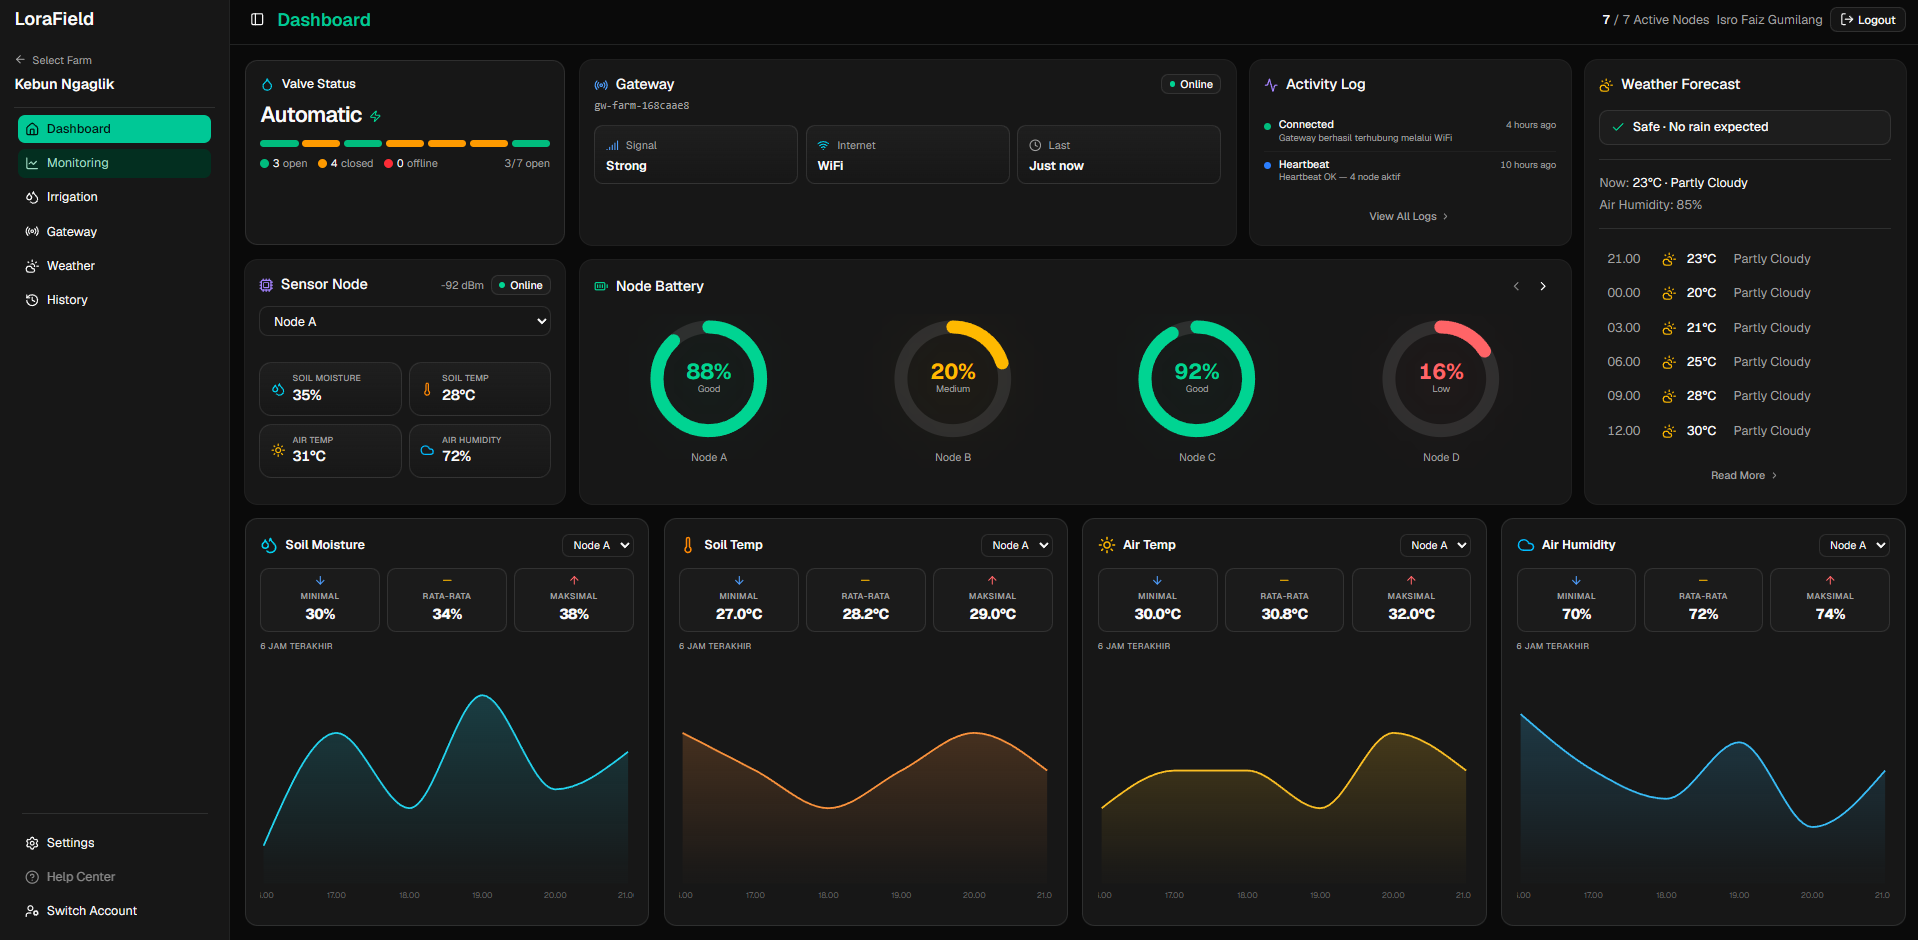
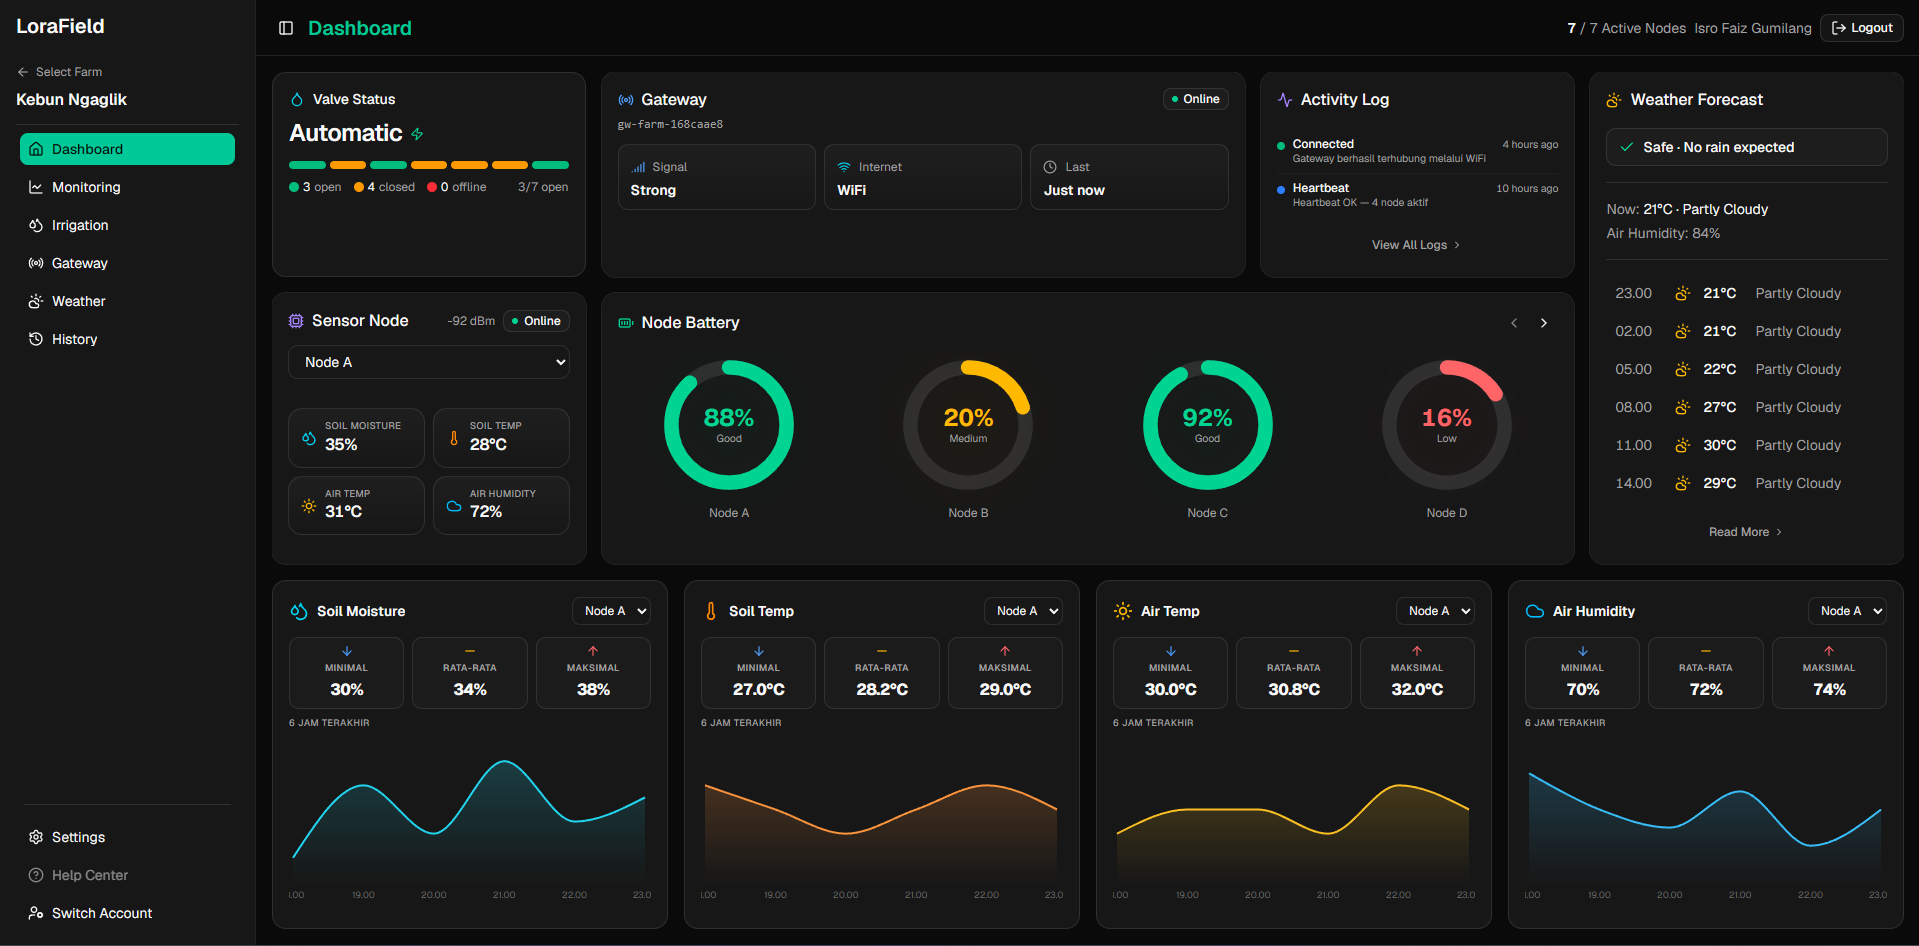
fix layout card

diff --git a/frontend/src/features/landing/LandingPage.tsx b/frontend/src/features/landing/LandingPage.tsx
@@ -24,7 +24,7 @@ import {
 } from "@/components/ui/accordion"
 import { Badge } from "@/components/ui/badge"
 import { Card, CardContent } from "@/components/ui/card"
-import { DASHBOARD_PREVIEW_IMAGE_URL } from "./constants"
+import heroPreviewImage from "@/assets/Hero-Preview1.png"
 import "./LandingPage.css"
 
 // Lebar konten + padding horizontal yang konsisten.
@@ -244,7 +244,7 @@ export default function LandingPage() {
               initial={{ opacity: 0, y: 20 }}
               animate={{ opacity: 1, y: 0 }}
               transition={{ duration: 0.5 }}
-              className="mx-auto mb-12 max-w-3xl text-center"
+              className="mx-auto mb-6 max-w-3xl text-center"
             >
               <h1 className="mb-6 bg-gradient-to-r from-foreground to-foreground/70 bg-clip-text text-4xl font-bold tracking-tight text-transparent md:text-5xl lg:text-6xl">
                 {t("landing.heroTitle")}
@@ -266,17 +266,17 @@ export default function LandingPage() {
               initial={{ opacity: 0, y: 40 }}
               animate={{ opacity: 1, y: 0 }}
               transition={{ duration: 0.7, delay: 0.2 }}
-              className="relative mx-auto max-w-5xl"
+              className="relative mx-auto max-w-[70.60032rem]"
             >
               <div className="overflow-hidden rounded-xl border border-border/40 bg-gradient-to-b from-background to-muted/20 shadow-2xl">
                 {!imageError && (
                   <img
-                    src={DASHBOARD_PREVIEW_IMAGE_URL}
+                    src={heroPreviewImage}
                     onError={handleImageError}
                     width={1280}
                     height={720}
                     alt={t("landing.heroImageAlt")}
-                    className="h-auto w-full"
+                    className="aspect-video w-full object-fill"
                   />
                 )}
                 {imageError && (

diff --git a/frontend/src/features/monitoring/components/MonitoringPanel.tsx b/frontend/src/features/monitoring/components/MonitoringPanel.tsx
@@ -64,7 +64,7 @@ function MonitoringNodeSelect({
 
 function MonitoringChartLoadingState() {
   return (
-    <div className="grid flex-1 gap-4 md:min-h-0 md:grid-cols-2 md:grid-rows-2">
+    <div className="grid flex-1 gap-4 md:min-h-0 md:grid-cols-2 md:grid-rows-2 md:overflow-hidden">
       {Array.from({ length: 4 }).map((_, i) => (
         <Skeleton key={i} className="min-h-[14rem] w-full md:min-h-0" />
       ))}
@@ -77,7 +77,7 @@ function MonitoringChartGrid({
   thresholds,
 }: Pick<MonitoringPanelProps, 'readings' | 'thresholds'>) {
   return (
-    <div className="grid flex-1 gap-4 md:min-h-0 md:grid-cols-2 md:grid-rows-2">
+    <div className="grid flex-1 gap-4 md:min-h-0 md:grid-cols-2 md:grid-rows-2 md:overflow-hidden">
       <SoilMoistureZoneChart
         readings={readings}
         lower={thresholds.lower}
@@ -103,7 +103,7 @@ export function MonitoringPanel({
   const { t } = useTranslation();
 
   return (
-    <Card className="md:h-[calc(100svh-5.5rem)] md:max-h-[calc(100svh-5.5rem)]">
+    <Card className="md:h-[calc(100svh-5.5rem)] md:max-h-[calc(100svh-5.5rem)] md:overflow-hidden">
       <CardHeader className="pb-3">
         <CardTitle className="text-sm">{t('monitoring.selectNode')}</CardTitle>
       </CardHeader>

diff --git a/frontend/src/features/irrigation/components/IrrigationNodeGridCard.tsx b/frontend/src/features/irrigation/components/IrrigationNodeGridCard.tsx
@@ -22,11 +22,11 @@ export function IrrigationNodeGridCard({
   const shouldScrollNodes = nodes.length > NODE_SCROLL_THRESHOLD;
 
   return (
-    <Card className="flex h-full flex-col">
-      <CardHeader className="pb-2">
+    <Card className="flex h-full min-h-0 flex-col gap-1 overflow-hidden py-2">
+      <CardHeader className="pb-0">
         <CardTitle className="text-sm">{t('irrigation.perNodeTitle')}</CardTitle>
       </CardHeader>
-      <CardContent className="flex flex-1 p-4 pt-0 sm:p-5 sm:pt-0">
+      <CardContent className="flex min-h-0 flex-1 px-4 pt-0 pb-2 sm:px-5 sm:pt-0 sm:pb-2">
         {nodes.length === 0 ? (
           <div className="flex min-h-[120px] items-center justify-center rounded-md border border-dashed border-border bg-muted/20 p-4 text-sm text-muted-foreground">
             {t('irrigation.perNodeEmpty')}
@@ -34,7 +34,7 @@ export function IrrigationNodeGridCard({
         ) : (
           <div
             className={cn(
-              'grid flex-1 content-start items-start gap-3',
+              'grid min-h-0 flex-1 content-start items-start gap-3',
               NODE_GRID_COLUMNS_CLASS,
               shouldScrollNodes && NODE_GRID_SCROLL_CLASS,
             )}

diff --git a/frontend/src/features/irrigation/IrrigationPage.tsx b/frontend/src/features/irrigation/IrrigationPage.tsx
@@ -33,7 +33,7 @@ export default function IrrigationPage() {
   const lastSync = getFarmLastUpdate(summary.farm, irrigationNodes);
 
   return (
-    <div className="flex flex-col gap-4 xl:min-h-[calc(100svh-5.5rem)]">
+    <div className="flex flex-col gap-4 xl:h-[calc(100svh-5.5rem)] xl:max-h-[calc(100svh-5.5rem)] xl:overflow-hidden">
       <IrrigationHeaderCard
         gatewayStatus={summary.gateway_status}
         lastSync={lastSync}
@@ -42,7 +42,7 @@ export default function IrrigationPage() {
 
       <IrrigationStatsGrid stats={stats} />
 
-      <div className="grid min-h-[calc(100svh-335px)] flex-1 items-stretch gap-3 xl:min-h-0 xl:grid-cols-[minmax(0,1fr)_220px]">
+      <div className="grid min-h-[calc(100svh-335px)] flex-1 items-stretch gap-3 xl:min-h-0 xl:grid-cols-[minmax(0,1fr)_220px] xl:grid-rows-[minmax(0,1fr)] xl:overflow-hidden">
         <IrrigationNodeGridCard
           nodes={irrigationNodes}
           lower={summary.thresholds.lower}

diff --git a/frontend/src/features/irrigation/irrigationLayout.ts b/frontend/src/features/irrigation/irrigationLayout.ts
@@ -4,14 +4,14 @@ export const NODE_GRID_COLUMNS_CLASS = '[grid-template-columns:repeat(auto-fill,
 export const NODE_GRID_SCROLL_CLASS = [
   'max-h-[35.25rem]',
   'overflow-y-auto',
+  'overscroll-contain',
   'pr-1',
-  '[scrollbar-color:var(--muted-foreground)_transparent]',
+  '[scrollbar-color:color-mix(in_oklab,var(--muted-foreground)_40%,transparent)_transparent]',
   '[scrollbar-gutter:stable]',
   '[scrollbar-width:thin]',
   '[&::-webkit-scrollbar]:w-2',
+  '[&::-webkit-scrollbar-track]:bg-transparent',
   '[&::-webkit-scrollbar-thumb]:rounded-full',
-  '[&::-webkit-scrollbar-thumb]:bg-muted-foreground/35',
+  '[&::-webkit-scrollbar-thumb]:bg-muted-foreground/40',
   '[&::-webkit-scrollbar-thumb:hover]:bg-muted-foreground/55',
-  '[&::-webkit-scrollbar-track]:rounded-full',
-  '[&::-webkit-scrollbar-track]:bg-muted/30',
 ].join(' ');

diff --git a/frontend/src/features/gateway/GatewayPage.tsx b/frontend/src/features/gateway/GatewayPage.tsx
@@ -43,13 +43,13 @@ export default function GatewayPage() {
   }
 
   return (
-    <div className="space-y-5 max-w-xl mx-auto">
+    <div className="mx-auto flex w-full max-w-xl flex-col gap-5 xl:h-[calc(100svh-5.5rem)] xl:max-h-[calc(100svh-5.5rem)] xl:overflow-hidden">
       <GatewayInfoCard
         info={gatewayInfo}
-        className="rounded-2xl border border-border bg-gradient-to-br from-card to-card/80 p-6 transition-colors"
+        className="shrink-0 rounded-2xl border border-border bg-gradient-to-br from-card to-card/80 p-6 transition-colors"
       />
 
-      <Card>
+      <Card className="min-h-0 flex-1 overflow-hidden">
         <GatewayLogContent
           logs={logs}
           totalLogs={totalLogs}

diff --git a/frontend/src/features/irrigation/components/IrrigationRecommendationCard.tsx b/frontend/src/features/irrigation/components/IrrigationRecommendationCard.tsx
@@ -24,11 +24,11 @@ export function IrrigationRecommendationCard({
   const { t } = useTranslation();
 
   return (
-    <Card className="h-full">
+    <Card className="h-full min-h-0 overflow-hidden">
       <CardHeader className="pb-2">
         <CardTitle className="text-sm">{t('irrigation.recommendationTitle')}</CardTitle>
       </CardHeader>
-      <CardContent className="space-y-2 p-4 pt-0">
+      <CardContent className="min-h-0 flex-1 space-y-2 overflow-y-auto p-4 pt-0">
         {nodes.length === 0 ? (
           <p className="text-xs text-muted-foreground">{t('irrigation.recommendationEmpty')}</p>
         ) : stats.driestNodes.length === 0 ? (

diff --git a/frontend/src/features/dashboard/components/DashboardSummaryGrid.tsx b/frontend/src/features/dashboard/components/DashboardSummaryGrid.tsx
@@ -32,7 +32,7 @@ export function DashboardSummaryGrid({
   weatherForecast: WeatherForecastViewModel | null;
 }) {
   return (
-    <div className="grid flex-1 grid-cols-1 gap-4 sm:grid-cols-2 xl:grid-cols-5 xl:grid-rows-[auto_auto_minmax(0,1fr)]">
+    <div className="grid min-h-0 flex-1 grid-cols-1 gap-4 sm:grid-cols-2 xl:h-[calc(100svh-5.5rem)] xl:max-h-[calc(100svh-5.5rem)] xl:grid-cols-5 xl:grid-rows-[auto_auto_minmax(0,1fr)] xl:overflow-hidden">
       <ValveStatCard
         summary={valveSummary}
         className="sm:col-span-2 xl:col-start-1 xl:col-end-2 xl:row-start-1"

diff --git a/frontend/src/features/dashboard/components/FarmMetricCardsGrid.tsx b/frontend/src/features/dashboard/components/FarmMetricCardsGrid.tsx
@@ -53,7 +53,7 @@ export function FarmMetricCardsGrid({
   ];
 
   return (
-    <div className="grid grid-cols-1 gap-4 sm:col-span-2 sm:grid-cols-2 xl:col-start-1 xl:col-end-6 xl:row-start-3 xl:h-full xl:min-h-0 xl:grid-cols-4">
+    <div className="grid min-h-0 flex-1 gap-4 sm:col-span-2 sm:grid-cols-2 xl:col-start-1 xl:col-end-6 xl:row-start-3 xl:h-full xl:grid-cols-4 xl:grid-rows-[minmax(0,1fr)] xl:overflow-hidden">
       {cards.map((card) => (
         <MetricStatCard
           key={card.dataKey}

diff --git a/frontend/src/components/layout/AppLayout.tsx b/frontend/src/components/layout/AppLayout.tsx
@@ -239,7 +239,7 @@ export function AppLayout() {
           </div>
         </header>
 
-        <main className="flex min-w-0 flex-1 flex-col overflow-hidden p-3 sm:p-4">
+        <main className="flex h-full min-w-0 flex-1 flex-col overflow-hidden p-3 sm:p-4">
           <Outlet />
         </main>
       </SidebarInset>

diff --git a/frontend/src/features/gateway/components/GatewayLogContent.tsx b/frontend/src/features/gateway/components/GatewayLogContent.tsx
@@ -57,7 +57,7 @@ export function GatewayLogContent({
         )}
       </CardHeader>
 
-      <CardContent className="px-4 pb-4">
+      <CardContent className="min-h-0 flex-1 overflow-y-auto px-4 pb-4">
         <div className="mb-3 flex flex-wrap gap-1.5">
           {filterOptions.map((opt) => (
             <button

diff --git a/frontend/src/features/dashboard/DashboardPage.tsx b/frontend/src/features/dashboard/DashboardPage.tsx
@@ -28,7 +28,7 @@ export default function DashboardPage() {
   }
 
   return (
-    <div className="flex flex-col gap-4 xl:min-h-[calc(100svh-5.5rem)]">
+    <div className="flex flex-1 flex-col gap-4">
       {warning && <DashboardWarningCard message={warning} />}
 
       <DashboardSummaryGrid
